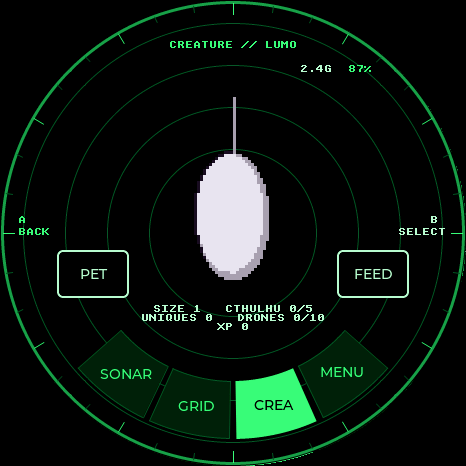
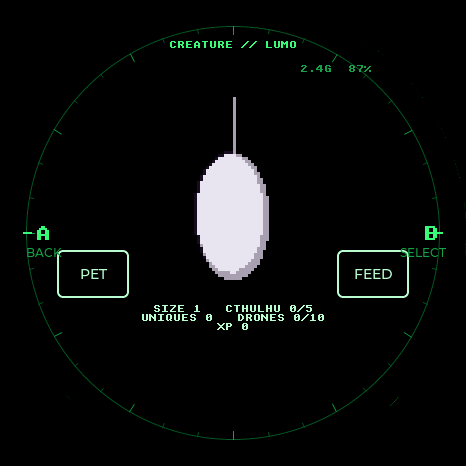
docs: v9 final screenshots (add sw-03-grid), M5Stack boot, yellow drones

diff --git a/docs/INSTALL.md b/docs/INSTALL.md
@@ -346,9 +346,9 @@ Every step is one screen or one field of <https://espressif.github.io/esptool-js
 
 ### 3.4 How to know it worked (StopWatch)
 
-- Round boot screen (from `v0.2.0-test3`, green phosphor radar on a pure black background): the **CYD32** logo and the **PASSIVE RF SONAR** title over a rotating sweep, **DEFENSIVE SONAR**, **M5 STOPWATCH**, **BLE OK / WIFI OK / RID OK**, **LOAD xx%** with a progress arc on the rim, the version and the hint **Hold KEYA 3 s: unsigned update**. The scanline and the short title jumps are intended.
+- Round boot screen (from `v0.2.0-test3`, green phosphor radar on a pure black background): the **M5Stack** logo and the **PASSIVE RF SONAR** title over a rotating sweep, **DEFENSIVE SONAR**, **STOPWATCH**, **BLE OK / WIFI OK / RID OK**, **LOAD xx%** with a progress arc on the rim, the version and the hint **Hold KEYA 3 s: unsigned update**. The scanline and the short title jumps are intended.
   (`v0.2.0-test1` showed **CYD32**, **DEFENSIVE SONAR**, **M5 STOPWATCH** and a yellow arc.)
-- Then the **creature** screen: an egg that hatches after about 3 seconds, then a baby that grows with the number of distinct radio sources. **SONAR** is in the menu and in the curved tab band at the bottom of the sonar and grid screens.
+- Then the **creature** screen: an egg that hatches after about 3 seconds, then a baby that grows with the number of distinct radio sources. **SONAR** is in the menu and in the curved tab band at the bottom of the sonar and grid screens. All screens are green; only drones are yellow. On **GRID**, tap a cell to show its details in the plate under the grid.
 - **`W!`** in red next to the battery instead of **2.4G** means that the Wi-Fi scanner failed to start; BLE keeps working. Report the `wifi:` and `scanner:` lines of the serial console (3.5).
 - In `v0.2.0-test2` the StopWatch screen stayed **black**; `v0.2.0-test3` contains the fix. The console now prints `flush #1 ...` / `flush #1 ok` for the first three screen updates and `first frame: <n> flushes`. If the first frame is not drawn within 5 s it prints `first frame NOT done after 5 s` with the free memory.
 - To open the menu: tap **MENU** on the rim, or **hold KEYA and KEYB together for about 1 second** (800 ms in the code). Tap the **COUNTERS** wedge, then tap **SIG** in the centre or press **KEYB** to open **ABOUT**. You should see:

diff --git a/README.md b/README.md
@@ -24,7 +24,10 @@ nearest-neighbour blit at 3x (192 px) into a PSRAM buffer.
 From `v0.2.0-test3` the boot, sonar and (StopWatch) wardriving screens use the
 v9 green phosphor radar theme: a procedural PPI scope with a 3 s clockwise
 sweep, a 40 degree trailing wedge and fading echoes; yellow is reserved for
-drones. The other screens keep the yellow Y3-d HUD with harmonised greens. The
+drones (#FCEE0A on both boards). The StopWatch boot screen shows the M5Stack
+logo; every other StopWatch screen is phosphor green on black, and the screens
+with the 4 tabs (sonar, grid) use the curved tab band. On the CYD the remaining
+screens use the same phosphor tokens (README section 7 of the design). The
 first screen after boot is the creature (an egg that hatches, then grows with
 detections). Reference renders and host renders of the firmware are in
 [`docs/screenshots/v9/`](docs/screenshots/v9/) (counters and contacts there are

diff --git a/docs/screenshots/v9/README.md b/docs/screenshots/v9/README.md
@@ -3,8 +3,8 @@
 **UNTESTED ON HARDWARE.** All counters, contacts, IDs, RSSI values, timers and
 version strings in these images are **EXAMPLE DATA**.
 
-- `reference/`: the design reference renders (1x, RGB565-quantised) for the
-  screens that use the full phosphor theme.
+- `reference/`: the design reference renders (1x, RGB565-quantised) from the
+  final v9 design package, including the StopWatch grid (`sw-03-grid.png`).
 - `firmware-host/`: the real `src/ui.cpp` / `src/ui_round.cpp` /
   `src/ui_radar.cpp` rendered on a PC with LVGL 9.2.2 (32-bit build, the
   board's `lv_conf.h`, 40-line partial draw buffer) and stubbed data. On the
